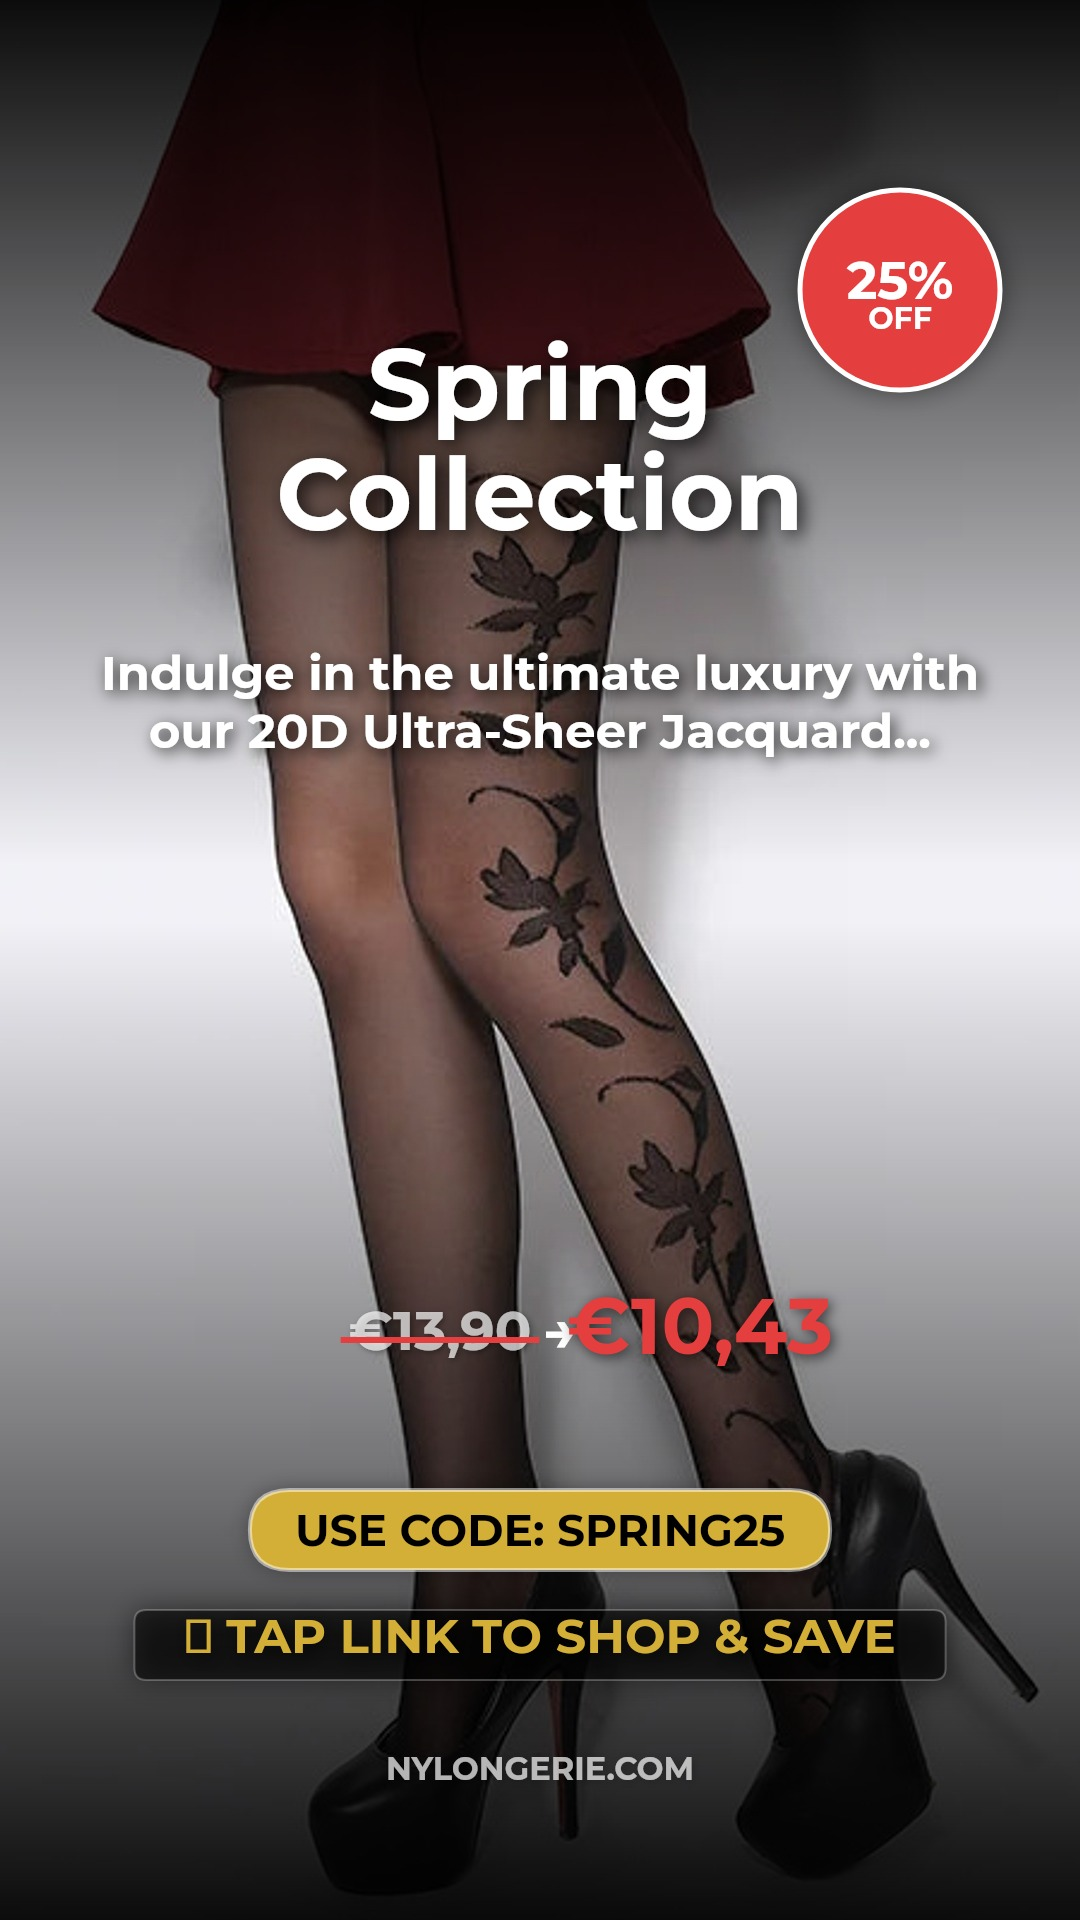
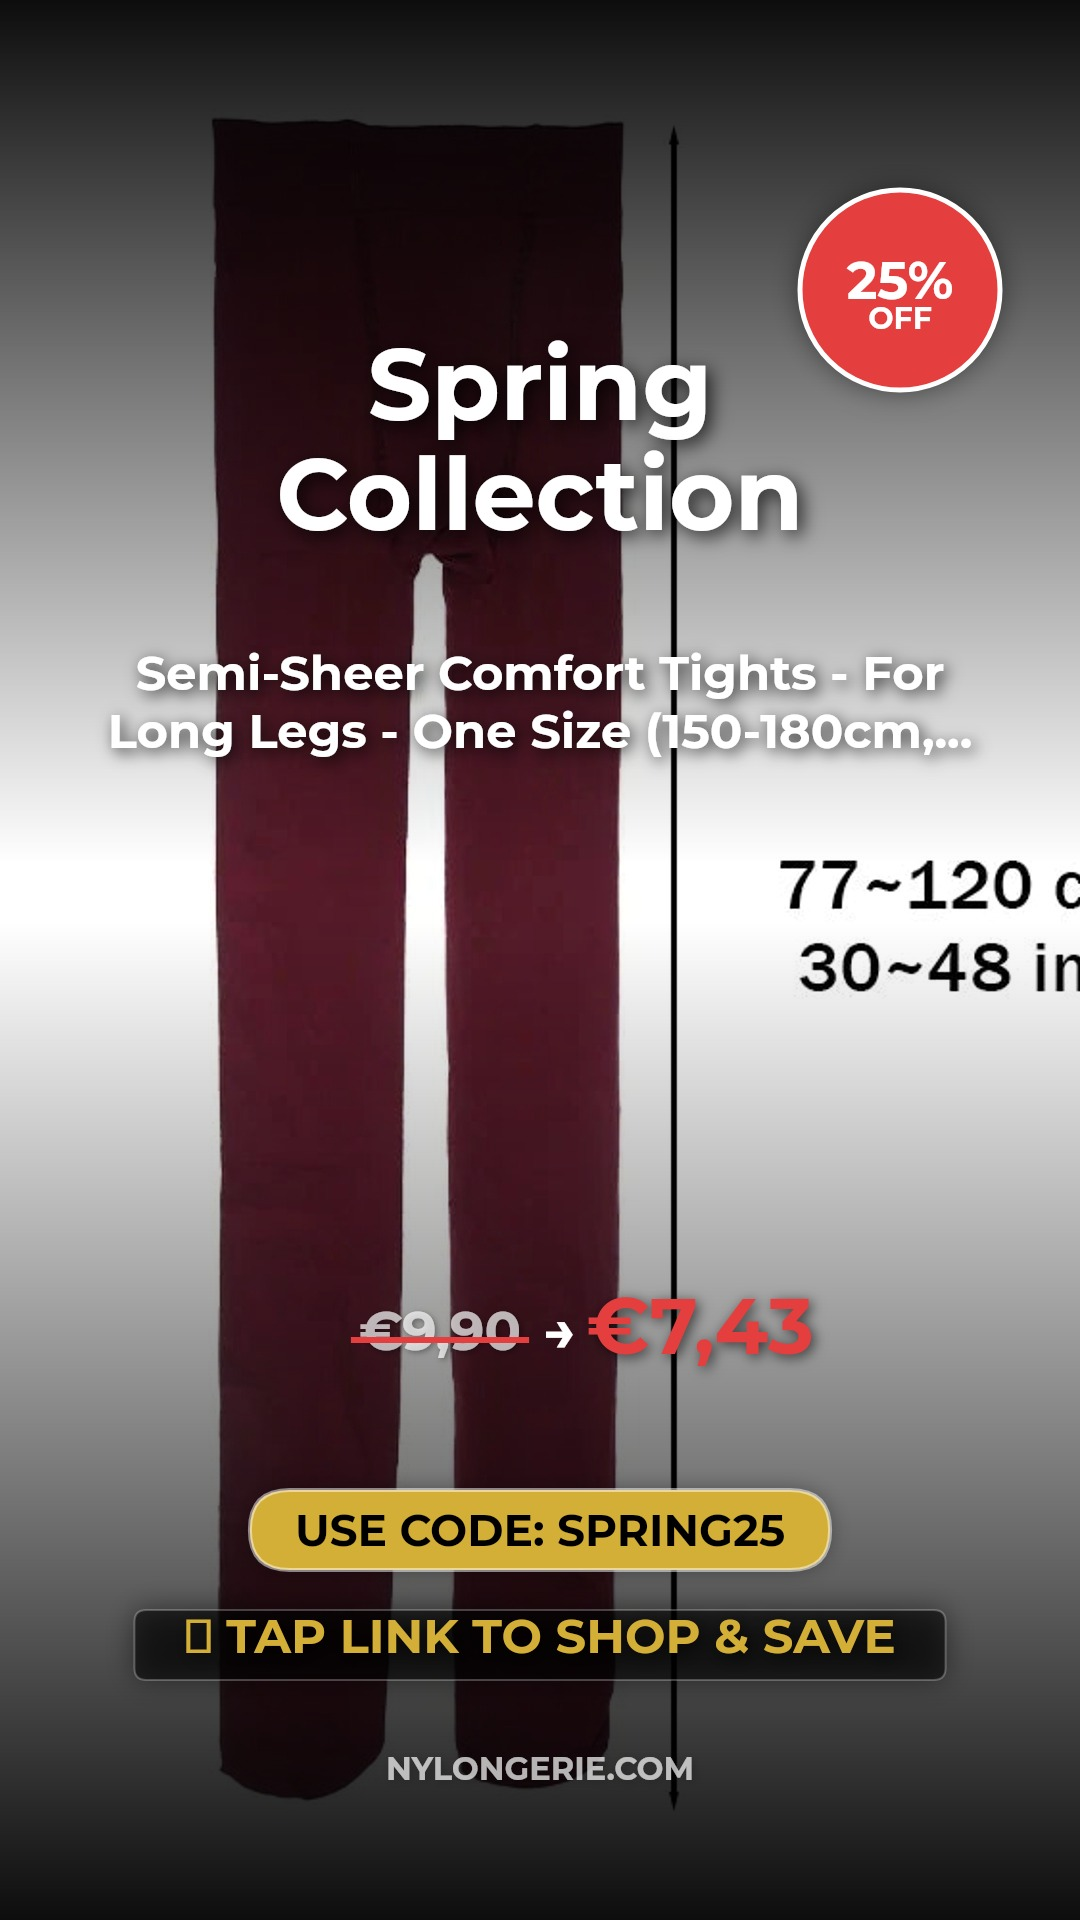
Nightly backup

diff --git a/nylongerie-create-reel-batch.js b/nylongerie-create-reel-batch.js
@@ -170,7 +170,24 @@ function telegramSendMessage(text) {
     '--data-urlencode', `text=${text}`,
     '-d', 'parse_mode=Markdown',
   ];
-  return spawnSync('curl', args, { encoding: 'utf8', timeout: 30000 }).status === 0;
+  return telegramCurlOk(args, 30000);
+}
+
+function telegramCurlOk(args, timeout) {
+  const result = spawnSync('curl', args, { encoding: 'utf8', timeout });
+  if (result.status !== 0) {
+    if (result.stderr) console.error(result.stderr.trim());
+    return false;
+  }
+  try {
+    const data = JSON.parse(result.stdout || '{}');
+    if (data.ok) return true;
+    console.error(`Telegram API rejected request: ${data.description || result.stdout.slice(0, 300)}`);
+    return false;
+  } catch (e) {
+    console.error(`Telegram response was not JSON: ${(result.stdout || result.stderr || '').slice(0, 300)}`);
+    return false;
+  }
 }
 
 function telegramSendVideo(draft) {
@@ -193,7 +210,7 @@ ${draft.caption_headline}
     '-F', `caption=${caption}`,
     '-F', 'parse_mode=Markdown',
   ];
-  return spawnSync('curl', args, { encoding: 'utf8', timeout: 100000 }).status === 0;
+  return telegramCurlOk(args, 100000);
 }
 
 function deliverDraftsToTelegram(drafts) {
@@ -212,7 +229,7 @@ function deliverDraftsToTelegram(drafts) {
 
 Antworte mit 👍 für alle oder nenne die Nummern.
 ⚠️ Nichts wird gepostet ohne dein OK.`;
-  telegramSendMessage(summary);
+  ok = telegramSendMessage(summary) && ok;
   return ok;
 }
 

diff --git a/NYLONGERIE_PIPELINE.md b/NYLONGERIE_PIPELINE.md
@@ -1,6 +1,6 @@
-# NYLONGERIE_PIPELINE.md — Instagram Posting Pipeline & Protocol
+# NYLONGERIE_PIPELINE.md — Nylongerie Pipeline Summary
 
-> Canonical file for Nylongerie posting workflow.
+> Operational summary only. Canonical pipeline rules live in `~/.openclaw/PIPELINES.md` and the linked `~/.openclaw/pipelines/*/README.md` files.
 > For **which accounts are active vs paused**, the single source of truth is [ACCOUNT_RULES.md](./ACCOUNT_RULES.md). This file describes the pipeline; it does not re-declare posting authority.
 
 ---
@@ -38,9 +38,17 @@ If this summary disagrees with ACCOUNT_RULES.md, ACCOUNT_RULES.md wins and this 
 
 ---
 
-## ⚡ Topic 3 Context Rule
+## Topic 3 Approval Rule
 
-When Felix receives a message in **Topic 3 (NylonGerie)**, ALWAYS check these files before responding:
+The standard Topic 3 path is deterministic middleware, not an LLM reply:
+
+```bash
+cd /Users/lothareckstein/.openclaw && node scripts/nylongerie-approval-middleware.js
+```
+
+It runs every minute via `ai.openclaw.cron.nylongerie-approval-middleware`, reads Topic 3 replies, and dispatches newsletter / REEL / RECYCLE / submission approvals. Felix should not answer from stale session context.
+
+Manual fallback only, if the middleware is down:
 
 ### 1. Post/Reel/Recycle Queue (unified — SSOT: `queue.json`)
 
@@ -54,7 +62,7 @@ Display **all** pending drafts (any type) with: `id`, target `account`, `file` (
 
 If Lothar's approval wording is ambiguous (e.g. "publish 1 and 2" when pending entries span REEL and RECYCLE), ask for clarification before acting.
 
-**On approval (👍, "approve", "ja", "publish"):**
+**On approval (thumbs-up, "approve", "ja", "publish"):**
 1. Set entry status to `"approved"` in queue.json
 2. Run: `cd /Users/lothareckstein/.openclaw && node pipelines/post/publish.js --id <ENTRY_ID>`
    — The same `publish.js` handles POST, REEL, and RECYCLE entries; it dispatches on `entry.type`.
@@ -78,6 +86,8 @@ Check `~/.openclaw/nylongerie/newsletter-state.json` for current status:
 **If Lothar replies "abbrechen" / "cancel" / "nein":**
 → Run: `cd /Users/lothareckstein/.openclaw/nylongerie && node newsletter-build.js reset`
 → Confirm cancellation in Topic 3
+
+Do not mention the newsletter while handling REEL/RECYCLE unless `newsletter-state.json` is actually pending.
 
 ---
 
@@ -349,9 +359,9 @@ Every pipeline has ONE script that does everything end-to-end. Run from `~/.open
 
 ### Direct POST Pipeline
 ```bash
-cd /Users/lothareckstein/.openclaw && node pipelines/post/select.js
+cd /Users/lothareckstein/.openclaw && node pipelines/recycle/select.js
 ```
-→ Disabled. This command exits non-zero by design. Do not run it to create drafts.
+→ Direct POST selection is disabled. Feed-post drafts are created by RECYCLE only.
 
 ### REEL Pipeline
 ```bash
@@ -367,9 +377,9 @@ cd /Users/lothareckstein/.openclaw && node pipelines/recycle/select.js
 
 ### Publish (after Lothar approves — all types)
 ```bash
-cd /Users/lothareckstein/.openclaw && node pipelines/post/publish.js
+cd /Users/lothareckstein/.openclaw && node pipelines/post/publish.js --id <ENTRY_ID>
 ```
-→ Publishes all entries with `status: "approved"`, regardless of `type`. Auto-detects REEL/recycle-post and legacy approved POST entries. Updates used-images.json for published feed/reel media (recycle tracked separately in `pipelines/_state/recycle-history.json`).
+→ Publishes the approved entry by id. Auto-detects REEL/recycle-post and legacy approved POST entries. Updates used-images.json for published feed/reel media (recycle tracked separately in `pipelines/_state/recycle-history.json`).
 
 ---
 
@@ -398,7 +408,7 @@ cd /Users/lothareckstein/.openclaw && node pipelines/post/publish.js
    - Creates queue entries with `type: "reel"` + `video_url`
    - Updates `used-images.json`
 2. **Send preview to Topic 3** with R2 video URL + caption for Lothar approval
-3. **After approval:** Approve in queue.json → run `cd /Users/lothareckstein/.openclaw && node pipelines/post/publish.js`
+3. **After approval:** approval middleware maps Lothar's reply and runs `cd /Users/lothareckstein/.openclaw && node pipelines/post/publish.js --id <ENTRY_ID>`
    - Publish script detects `type: "reel"` automatically
    - Uses `video_url` + `media_type: REELS` via Graph API
    - Polls container status until video processing is FINISHED (up to 2 min)
@@ -462,4 +472,4 @@ All pipeline scripts live under `~/.openclaw/pipelines/` and read rules from `~/
 
 ---
 
-**Last updated:** 2026-04-24 — Topic 3 Context Rule clarifies unified queue.json (POST + REEL + RECYCLE), script paths aligned to Refactor C (pipelines/*), all remaining references to deprecated `v3 / nylongerie-publish.js` stubs replaced with canonical `pipelines/post/*` paths.
+**Last updated:** 2026-05-10 — downgraded to operational summary, moved canonical authority to `PIPELINES.md` and pipeline READMEs, and replaced LLM-led Topic 3 instructions with deterministic approval middleware.

diff --git a/OPERATIONS.md b/OPERATIONS.md
@@ -183,9 +183,9 @@ Every cron job MUST have:
 | Symptom | Fix |
 |---------|-----|
 | "Outbound not configured for channel: telegram" | Add `lightContext: true` to payload |
-| Cron runs but doesn't deliver | Check delivery target format: `telegram:-1003775282698:<topic_id>` |
-| Cron times out | Increase `timeoutSeconds` (default 120, max 300) |
-| Wrong model or old instructions | `openclaw cron update <job-id> --patch '{...}'` |
+| Deterministic cron runs but doesn't deliver | Check `~/.openclaw/logs/cron-runner/<job>.latest.log` and Telegram send output |
+| Deterministic cron times out | Run through `~/.openclaw/scripts/cron-runner.sh <job>` with a larger `FELIX_CRON_TIMEOUT_SECONDS` only for that trial |
+| Wrong model or old instructions | Update `~/.openclaw/config/deterministic-schedule.json`, `~/.openclaw/scripts/cron-runner.sh`, or the relevant pipeline README; OpenClaw `cron/jobs.json` is disabled |
 
 ### Testing Protocol
 
@@ -193,8 +193,9 @@ Every cron job MUST have:
 **Require approval:** Content generation, email campaigns, external writes
 
 ```bash
-openclaw cron run <job-id>
-openclaw cron runs <job-id> --json | jq '.entries[0] | {status, deliveryStatus, error}'
+cd ~/.openclaw
+FELIX_CRON_TIMEOUT_SECONDS=300 scripts/cron-runner.sh <job-name>
+tail -80 ~/.openclaw/logs/cron-runner/<job-name>.latest.log
 ```
 
 ---